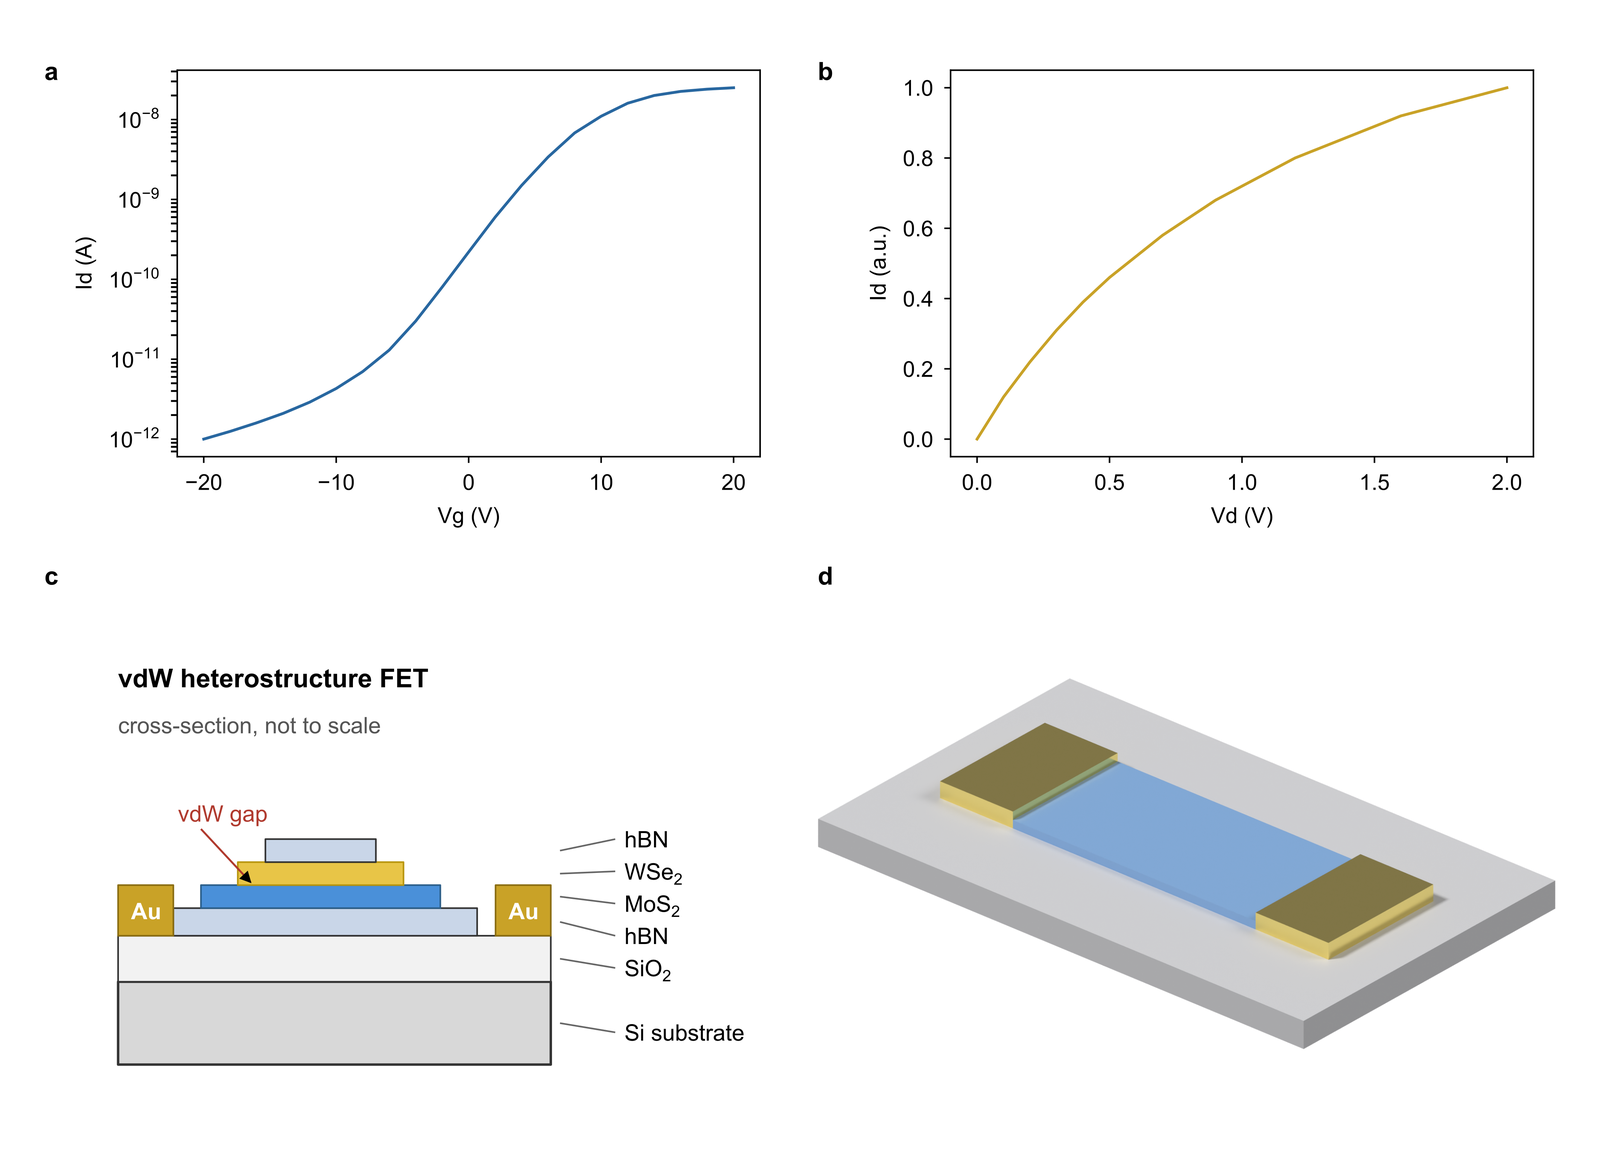
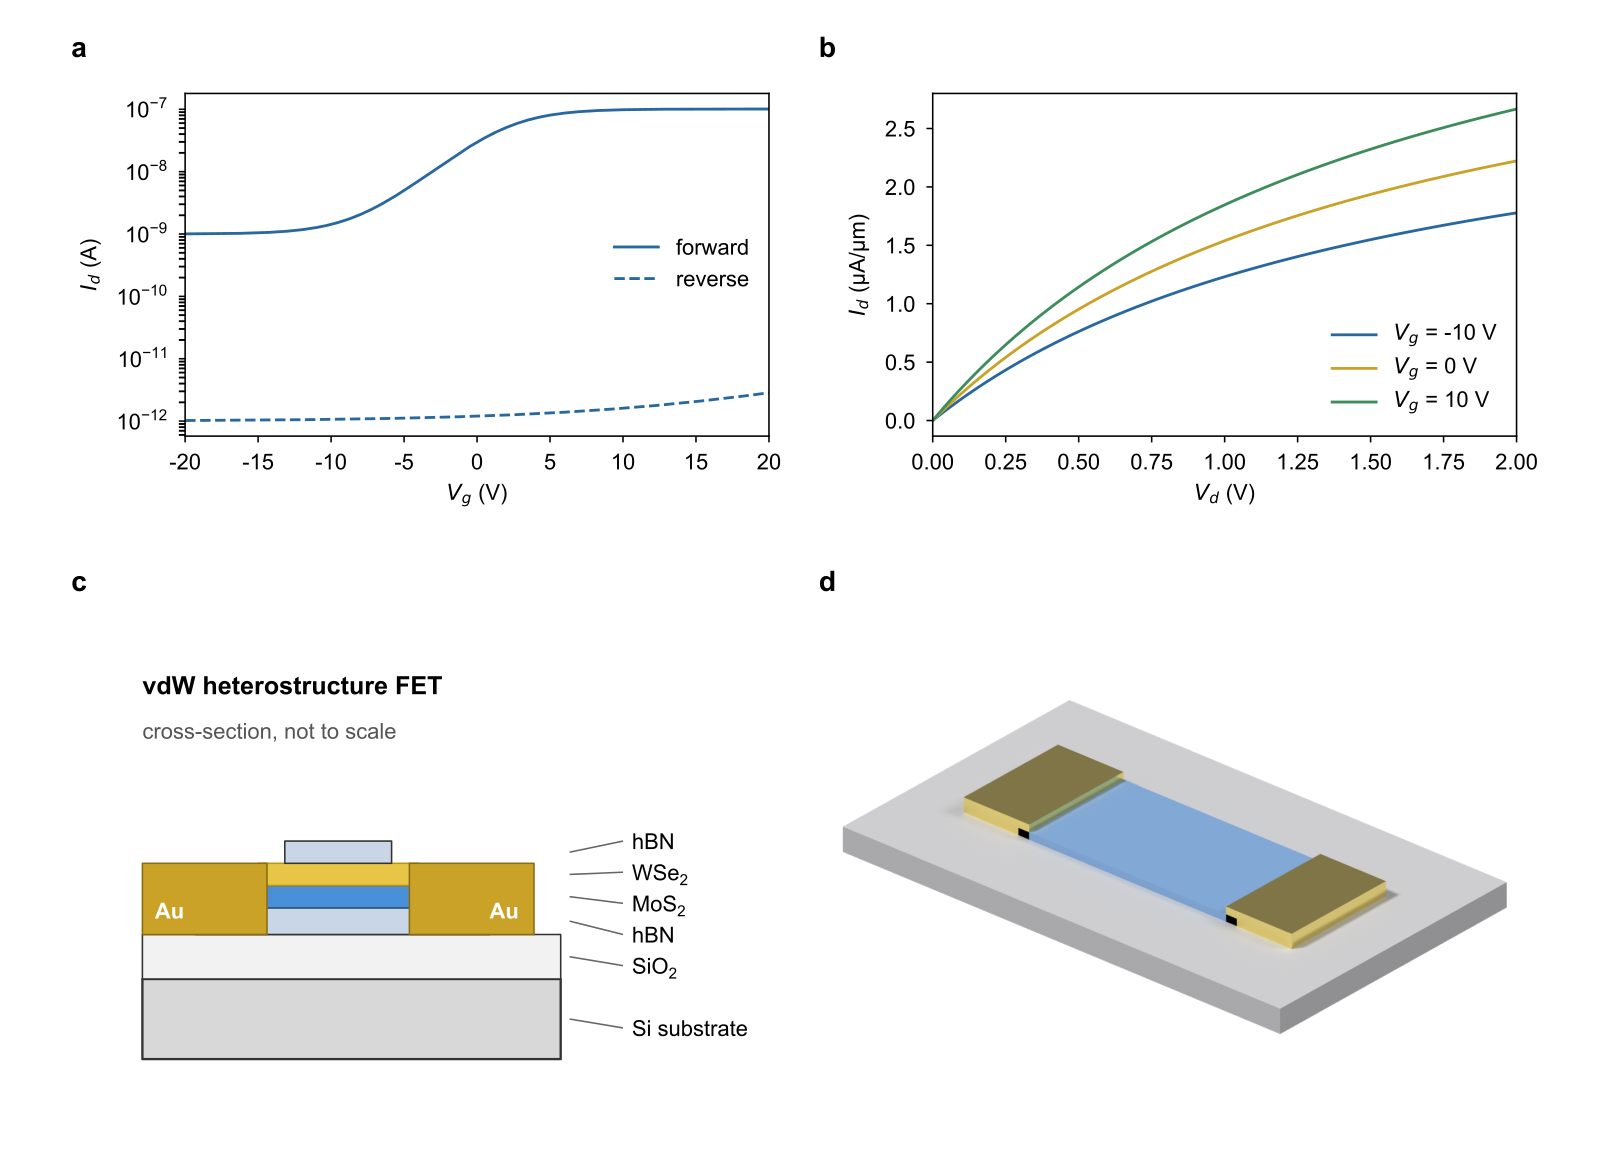
feat: update workspace

diff --git a/examples/fig_stack.py b/examples/fig_stack.py
@@ -46,10 +46,12 @@ def build() -> Canvas:
     c.rect(24, 26.5, 12, 2.5, fill=COLORS["hbn"], stroke=COLORS["edge"], stroke_pt=0.5,
            element_id="hbn_top")
 
-    # --- 电极：贯穿到 SiO2 的两端接触 ---
-    c.rect(8, 31.5, 6, 5.5, fill=COLORS["au"], stroke="#8A6D12", stroke_pt=0.5,
+    # --- 电极：覆盖 vdW 叠层两端，与 WSe2/MoS2 直接接触 ---
+    # 顶部与 WSe2 上表面齐平（y=29），底部落在 SiO2（y=37）；
+    # 左右各向沟道内延伸 1 mm，避免出现悬空/留缝的“假接触”。
+    c.rect(8, 29, 14, 8, fill=COLORS["au"], stroke="#8A6D12", stroke_pt=0.5,
            element_id="source")
-    c.rect(49, 31.5, 6, 5.5, fill=COLORS["au"], stroke="#8A6D12", stroke_pt=0.5,
+    c.rect(38, 29, 14, 8, fill=COLORS["au"], stroke="#8A6D12", stroke_pt=0.5,
            element_id="drain")
 
     # --- 引导线与标签（斜引导线，避免 2.5 mm 层厚导致标签挤在一起）---
@@ -65,13 +67,12 @@ def build() -> Canvas:
         c.line(56, y_from, 62, y_label, stroke="#666666", stroke_pt=0.5)
         c.text(63, y_label + 0.9, "", size_pt=7, runs=runs)
 
-    # 电极标签直接放在色块里，避免与右侧标签争空间
+    # 电极标签直接放在色块里，避开叠层与右侧引线
     c.text(9.4, 35.2, "Au", size_pt=7, fill="#FFFFFF", weight="bold")
-    c.text(50.4, 35.2, "Au", size_pt=7, fill="#FFFFFF", weight="bold")
+    c.text(47.0, 35.2, "Au", size_pt=7, fill="#FFFFFF", weight="bold")
 
-    # --- vdW 界面标注：走左侧空白，不压任何图层 ---
-    c.text(14.5, 24.6, "vdW gap", size_pt=7, fill="#B03A2E")
-    c.line(17.0, 25.4, 22.4, 31.2, stroke="#B03A2E", stroke_pt=0.6, arrow=True)
+    # 不再标注 "vdW gap"：电极与二维叠层之间是直接接触，
+    # 真正的范德华界面是层间界面，在截面里不适合用一条斜箭头笼统表示。
 
     # --- 面板内标题 ---
     c.text(8, 10, "vdW heterostructure FET", size_pt=8, weight="bold")

diff --git a/tests/test_vector.py b/tests/test_vector.py
@@ -162,5 +162,35 @@ class TestCompose(unittest.TestCase):
             self.assertNotIn("onclick=", out)
 
 
+class TestExampleGeometry(unittest.TestCase):
+    """示例器件必须让源漏电极与二维半导体层直接接触，不能只是贴近或留缝。"""
+
+    def test_electrodes_overlap_2d_layers(self):
+        from examples import fig_stack
+
+        canvas = fig_stack.build()
+        rects = {}
+        for el in canvas.layer.iter():
+            element_id = el.get("id")
+            if element_id in {"source", "drain", "mos2", "wse2"}:
+                rects[element_id] = tuple(
+                    float(el.get(key)) for key in ("x", "y", "width", "height")
+                )
+        self.assertEqual(set(rects), {"source", "drain", "mos2", "wse2"})
+
+        def overlaps(a, b):
+            ax, ay, aw, ah = a
+            bx, by, bw, bh = b
+            return (min(ax + aw, bx + bw) > max(ax, bx)
+                    and min(ay + ah, by + bh) > max(ay, by))
+
+        for electrode in ("source", "drain"):
+            for layer in ("wse2", "mos2"):
+                self.assertTrue(
+                    overlaps(rects[electrode], rects[layer]),
+                    f"{electrode} 必须与 {layer} 有实际重叠（直接接触）",
+                )
+
+
 if __name__ == "__main__":
     unittest.main()

diff --git a/templates/build_3d.py b/templates/build_3d.py
@@ -93,8 +93,9 @@ def build(out_dir: Path) -> None:
 
     _box("substrate", (40, 24, 2), (0, 0, -1), substrate)
     _box("channel", (20, 10, 0.6), (0, 0, 0.3), channel)
-    _box("source", (6, 10, 1.2), (-13, 0, 0.6), metal)
-    _box("drain", (6, 10, 1.2), (13, 0, 0.6), metal)
+    # 电极向沟道内重叠 1 mm（中心 ±12、宽 6），保证接触而不是刚好贴面/留缝
+    _box("source", (6, 10, 1.2), (-12, 0, 0.6), metal)
+    _box("drain", (6, 10, 1.2), (12, 0, 0.6), metal)
 
     # --- 相机：正交 3/4 视角，保证尺度可换算且能看出厚度 ---
     bpy.ops.object.camera_add(location=(95, -110, 80))
